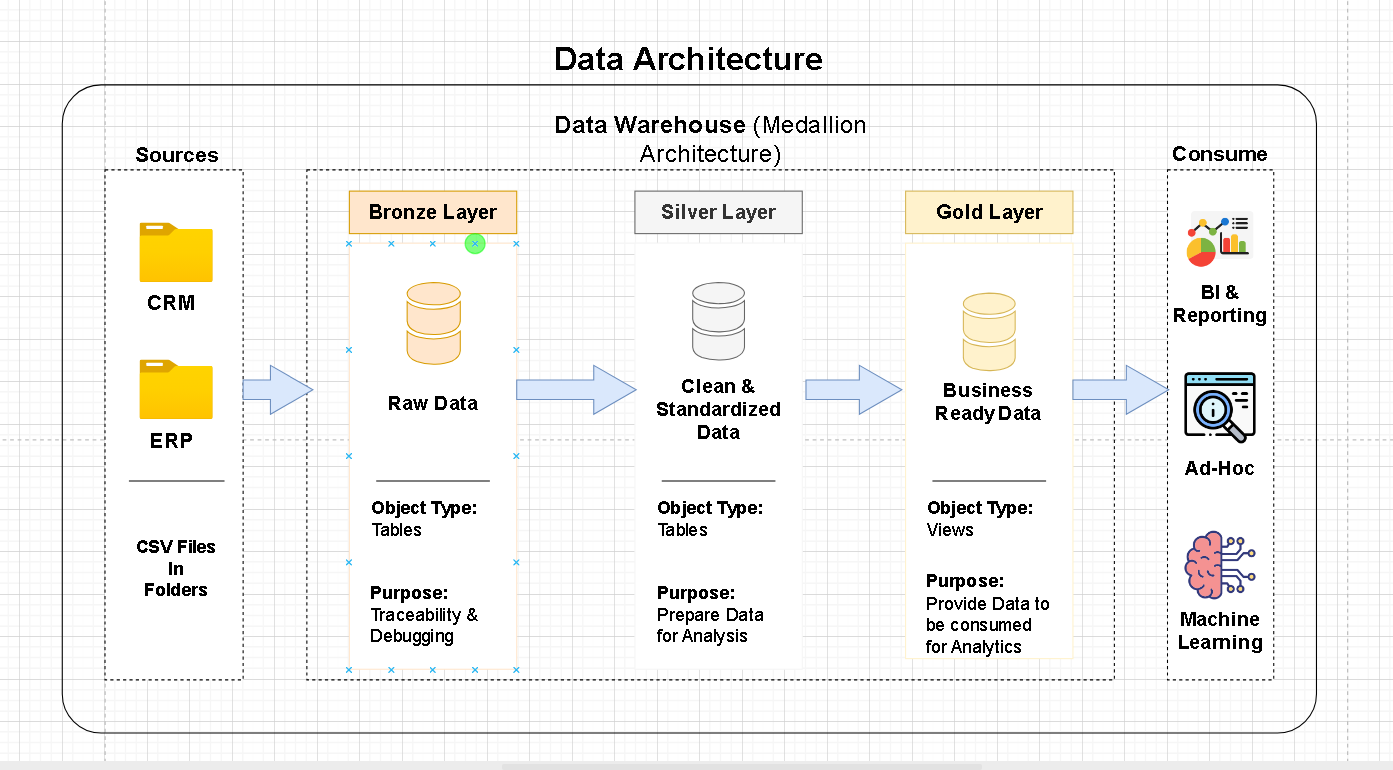
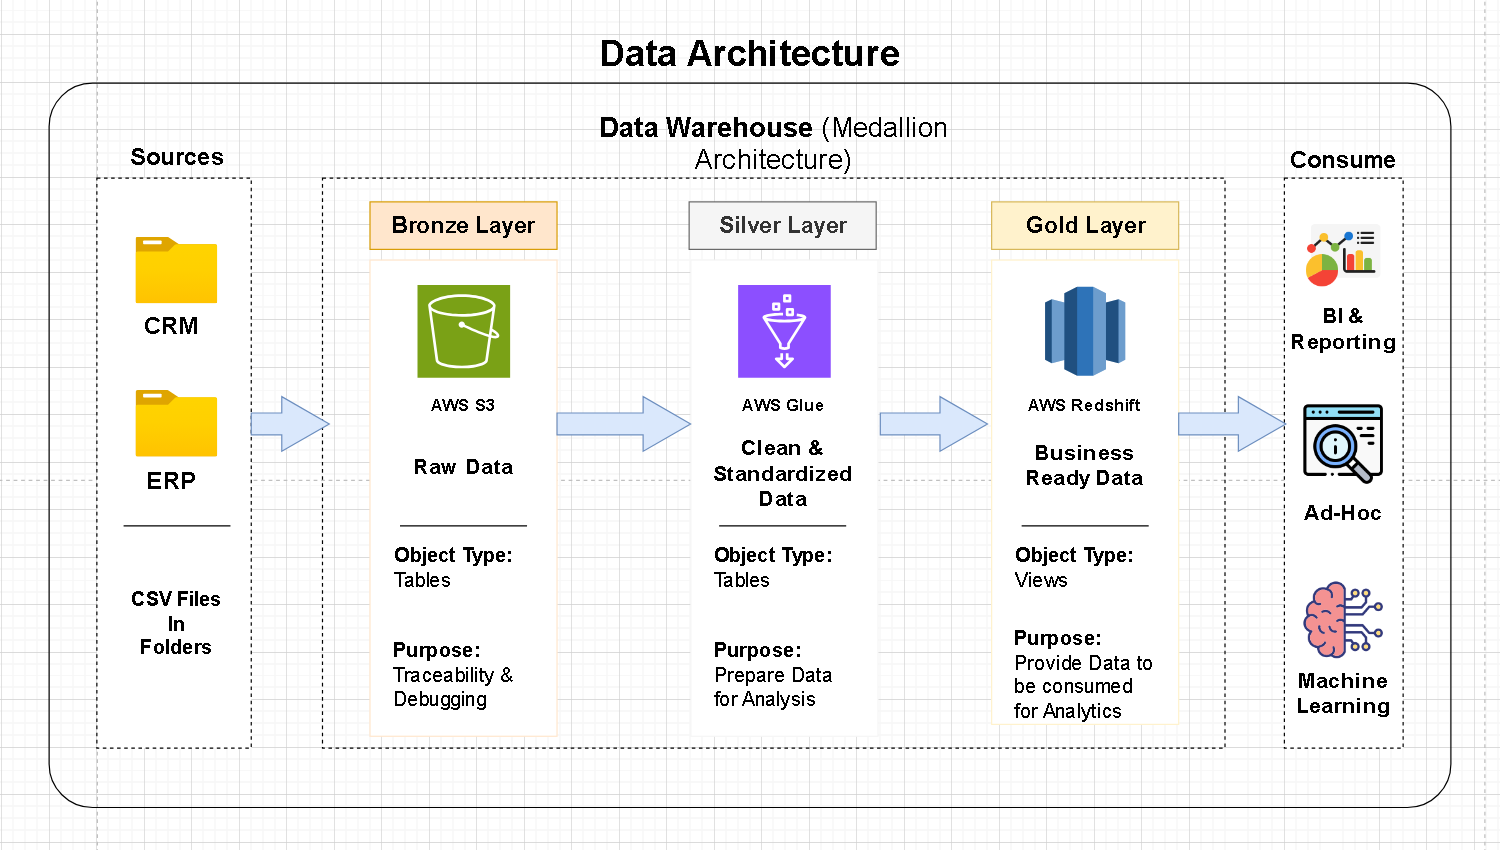
Updated diagram , added aws scripts

diff --git a/scripts/silver/pyspark_script.py b/scripts/silver/pyspark_script.py
@@ -1,0 +1,221 @@
+import sys
+import boto3
+
+from pyspark.sql import SparkSession
+from pyspark.sql import functions as F
+from pyspark.sql.window import Window
+
+from awsglue.context import GlueContext
+from awsglue.dynamicframe import DynamicFrame
+from pyspark.context import SparkContext
+from awsglue.job import Job
+from awsglue.utils import getResolvedOptions
+
+# ---------- Glue Job Setup ----------
+args = getResolvedOptions(sys.argv, ['JOB_NAME'])
+sc = SparkContext()
+glueContext = GlueContext(sc)
+spark = glueContext.spark_session
+job = Job(glueContext)
+job.init(args['JOB_NAME'], args)
+
+# ---------- Read Bronze tables ----------
+crm_cust_info     = glueContext.create_dynamic_frame.from_catalog(database="bronze_db", table_name="cust_info").toDF()
+crm_prd_info      = glueContext.create_dynamic_frame.from_catalog(database="bronze_db", table_name="prd_info").toDF()
+crm_sales_details = glueContext.create_dynamic_frame.from_catalog(database="bronze_db", table_name="sales_details").toDF()
+erp_cust_az12     = glueContext.create_dynamic_frame.from_catalog(database="bronze_db", table_name="cust_az12").toDF()
+erp_loc_a101      = glueContext.create_dynamic_frame.from_catalog(database="bronze_db", table_name="loc_a101").toDF()
+erp_px_cat_g1v2   = glueContext.create_dynamic_frame.from_catalog(database="bronze_db", table_name="px_cat_g1v2").toDF()
+
+# ---------- CRM Transformations ----------
+
+# crm_cust_info: deduplication + trim + standardization
+crm_cust_info = crm_cust_info.withColumn("cst_create_date", F.col("cst_create_date").cast("date"))
+window_cust = Window.partitionBy("cst_id").orderBy(F.col("cst_create_date").desc())
+
+silver_crm_cust_info = (
+    crm_cust_info
+    .withColumn("row_num", F.row_number().over(window_cust))
+    .filter(F.col("row_num") == 1).drop("row_num")
+    .withColumn("cst_gndr",
+        F.when(F.upper(F.trim(F.col("cst_gndr"))) == "M", "Male")
+         .when(F.upper(F.trim(F.col("cst_gndr"))) == "F", "Female")
+         .otherwise("n/a")
+    )
+    .withColumn("cst_marital_status",
+        F.when(F.upper(F.trim(F.col("cst_marital_status"))) == "M", "Married")
+         .when(F.upper(F.trim(F.col("cst_marital_status"))) == "S", "Single")
+         .otherwise("n/a")
+    )
+    .withColumn("cst_key", F.trim(F.col("cst_key")))
+    .withColumn("cst_firstname", F.trim(F.col("cst_firstname")))
+    .withColumn("cst_lastname", F.trim(F.col("cst_lastname")))
+    .filter(F.col("cst_id").isNotNull())
+)
+
+# crm_prd_info: trim, substring, standardization, start/end date logic
+# Ensure we consistently use prd_start_dt
+window_prd = Window.partitionBy("prd_key").orderBy("prd_start_dt")
+
+silver_crm_prd_info = (
+    crm_prd_info
+    .withColumn("cat_id", F.regexp_replace(F.substring(F.col("prd_key"), 1, 5), "-", "_"))
+    .withColumn("prd_key", F.expr("substring(prd_key, 7, length(prd_key))"))
+    .withColumn("prd_nm", F.trim(F.col("prd_nm")))
+    .withColumn("prd_cost", F.when(F.col("prd_cost").isNull(), F.lit(0)).otherwise(F.col("prd_cost")))
+    .withColumn("prd_line",
+        F.when(F.upper(F.trim(F.col("prd_line"))) == 'M', 'Mountain')
+         .when(F.upper(F.trim(F.col("prd_line"))) == 'R', 'Road')
+         .when(F.upper(F.trim(F.col("prd_line"))) == 'S', 'Other Sales')
+         .when(F.upper(F.trim(F.col("prd_line"))) == 'T', 'Touring')
+         .otherwise('n/a')
+    )
+    .withColumn("prd_start_dt", F.col("prd_start_dt").cast("date"))
+    .withColumn("next_start_dt", F.lead("prd_start_dt", 1).over(window_prd))
+    .withColumn("prd_end_dt", F.expr("date_sub(next_start_dt, 1)"))
+    .drop("next_start_dt")
+)
+
+# Safe parser for YYYYMMDD-like integers/strings -> date
+def parse_date_strict(col_name):
+    s = F.col(col_name).cast("string")
+    s = F.lpad(s, 8, "0")  # pad to 8 if needed
+    valid = (
+        (F.col(col_name) != F.lit(0)) &
+        (F.length(s) == 8) &
+        (s >= F.lit("19000101")) &
+        (s <= F.lit("20500101"))
+    )
+    return F.when(valid, F.to_date(s, "yyyyMMdd")).otherwise(F.lit(None).cast("date"))
+
+silver_crm_sales_details = (
+    crm_sales_details
+    .withColumn("sls_order_dt", parse_date_strict("sls_order_dt"))
+    .withColumn("sls_ship_dt",  parse_date_strict("sls_ship_dt"))
+    .withColumn("sls_due_dt",   parse_date_strict("sls_due_dt"))
+    .withColumn("sls_sales", F.when(
+        (F.col("sls_sales") <= 0) | F.col("sls_sales").isNull() |
+        (F.col("sls_sales") != F.col("sls_quantity") * F.col("sls_price")),
+        F.abs(F.col("sls_quantity") * F.col("sls_price"))
+    ).otherwise(F.col("sls_sales")))
+    .withColumn("sls_quantity", F.when(
+        (F.col("sls_quantity") <= 0) | F.col("sls_quantity").isNull(),
+        F.when(F.col("sls_price") == 0, F.lit(None).cast("double"))
+         .otherwise(F.abs(F.col("sls_sales") / F.col("sls_price")))
+    ).otherwise(F.col("sls_quantity")))
+    .withColumn("sls_price", F.when(
+        (F.col("sls_price") <= 0) | F.col("sls_price").isNull(),
+        F.when(F.col("sls_quantity") == 0, F.lit(None).cast("double"))
+         .otherwise(F.abs(F.col("sls_sales") / F.col("sls_quantity")))
+    ).otherwise(F.col("sls_price")))
+)
+
+# ---------- ERP Transformations ----------
+
+silver_erp_cust_az12 = (
+    erp_cust_az12
+    # cast bdate once, then null out future
+    .withColumn("bdate", F.col("bdate").cast("date"))
+    .withColumn(
+        "cid",
+        F.when(F.col("cid").startswith("NAS"), F.expr("substring(cid, 4, length(cid))"))
+         .otherwise(F.col("cid"))
+    )
+    .withColumn(
+        "bdate",
+        F.when(F.col("bdate") > F.current_date(), F.lit(None).cast("date"))
+         .otherwise(F.col("bdate"))
+    )
+    .withColumn(
+        "gen",
+        F.when(F.upper(F.trim(F.col("gen"))).isin("M", "MALE"), "Male")
+         .when(F.upper(F.trim(F.col("gen"))).isin("F", "FEMALE"), "Female")
+         .otherwise("n/a")
+    )
+)
+
+silver_erp_loc_a101 = (
+    erp_loc_a101
+    .withColumn("cid", F.regexp_replace(F.col("cid"), "-", ""))
+    .withColumn(
+        "cntry",
+        F.when(F.trim(F.col("cntry")).isin("US", "USA"), "United States")
+         .when(F.trim(F.col("cntry")) == "DE", "Germany")
+         .when((F.trim(F.col("cntry")) == "") | (F.col("cntry").isNull()), "n/a")
+         .otherwise(F.trim(F.col("cntry")))
+    )
+)
+
+silver_erp_px_cat_g1v2 = (
+    erp_px_cat_g1v2
+    .select(
+        F.trim(F.col("id")).alias("id"),
+        F.trim(F.col("cat")).alias("cat"),
+        F.trim(F.col("subcat")).alias("subcat"),
+        F.trim(F.col("maintenance")).alias("maintenance")
+    )
+)
+
+# ---------- Write Silver Tables to S3 ----------
+tables_to_write = {
+    "crm_cust_info":     silver_crm_cust_info,
+    "crm_prd_info":      silver_crm_prd_info,
+    "crm_sales_details": silver_crm_sales_details,
+    "erp_cust_az12":     silver_erp_cust_az12,
+    "erp_loc_a101":      silver_erp_loc_a101,
+    "erp_px_cat_g1v2":   silver_erp_px_cat_g1v2
+}
+
+
+bucket_name = "datawarehouse-portfolio-project"
+prefix = "silver/"
+
+s3 = boto3.resource("s3")
+bucket = s3.Bucket(bucket_name)
+bucket.objects.filter(Prefix=prefix).delete()
+print("✅ Silver S3 folder cleared")
+
+
+glue = boto3.client("glue")
+db_name = "silver_db"
+
+next_token = None
+while True:
+    if next_token:
+        resp = glue.get_tables(DatabaseName=db_name, NextToken=next_token)
+    else:
+        resp = glue.get_tables(DatabaseName=db_name)
+    for tbl in resp.get("TableList", []):
+        glue.delete_table(DatabaseName=db_name, Name=tbl["Name"])
+    next_token = resp.get("NextToken")
+    if not next_token:
+        break
+
+print("✅ All tables deleted from silver_db")
+
+# ---------- Write and Register in Glue Catalog ----------
+for table_name, df in tables_to_write.items():
+    print(f"Processing table: {table_name}")
+
+    # Convert to DynamicFrame
+    dynamic_df = DynamicFrame.fromDF(df, glueContext, table_name)
+
+    # Define S3 path
+    s3_path = f"s3://{bucket_name}/silver/{table_name}"
+
+    # Use Glue Sink to both write to S3 & update Glue Catalog
+    sink = glueContext.getSink(
+        path=s3_path,
+        connection_type="s3",
+        updateBehavior="UPDATE_IN_DATABASE",
+        partitionKeys=[],
+        enableUpdateCatalog=True,
+        transformation_ctx=f"sink_{table_name}"
+    )
+
+    sink.setCatalogInfo(catalogDatabase=db_name, catalogTableName=table_name)
+    sink.setFormat("parquet", useGlueParquetWriter=True)
+    sink.writeFrame(dynamic_df)
+
+job.commit()
+print("Silver Layer ETL Completed Successfully!")
